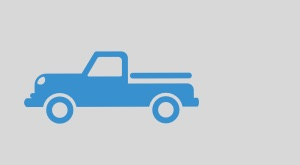
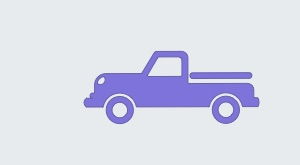
Friendlier design

Changed region(s): [[0.06, 0.2727, 0.93, 0.7879], [0.63, 0.2727, 0.66, 0.303]]

diff --git a/grunt/mailgun.js b/grunt/mailgun.js
@@ -6,7 +6,7 @@ module.exports = function(grunt) {
         key: '<%= secrets.mailgun.api_key %>', // See README for secrets.json or replace this with your own key
         sender: '<%= secrets.mailgun.sender %>', // See README for secrets.json or replace this with your preferred sender
         recipient: '<%= secrets.mailgun.recipient %>', // See README for secrets.json or replace this with your preferred recipient
-        subject: 'cond image outlook car-dealer double-stacked'
+        subject: 'Friendlier design'
       },
       src: ['<%= paths.dist %>/'+grunt.option('template')]
     }

diff --git a/src/css/scss/header.scss b/src/css/scss/header.scss
@@ -4,5 +4,5 @@
 }
 
 .intro-text {
-  background-color: #446875;
+  background-color: #57C2BA;
 }
